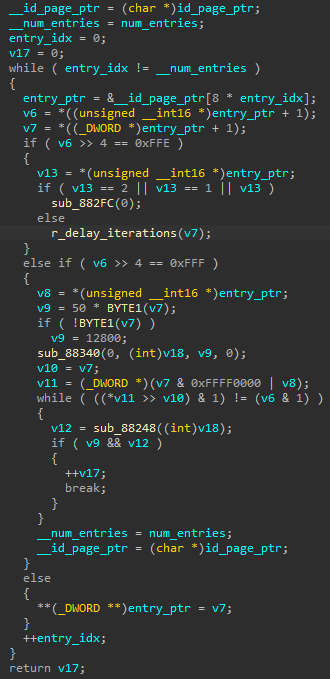
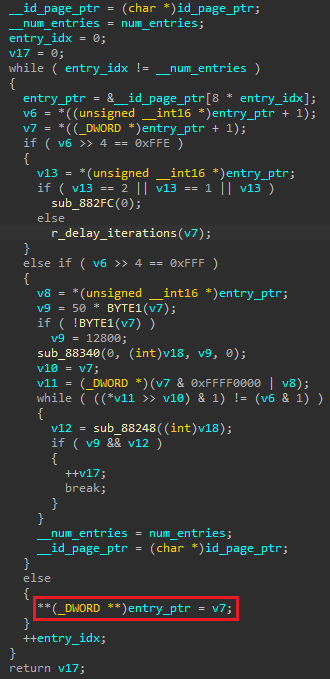
readme template + fixed image

Changed region(s): [[0.0909, 0.866, 0.7273, 0.9278]]

diff --git a/README.md b/README.md
@@ -1,0 +1,11 @@
+# DEFUSE
+*DEFUSE* is a vulnerability that enables bypassing Secure Boot on some Phison solid state drives (SSDs) based on E12/E16/E18 controllers.
+
+# Documentation
+TBD
+
+# PoC Code
+Due to the nature of the vulnerability, no exploitation code will be provided here.
+
+# Notes
+TBD
